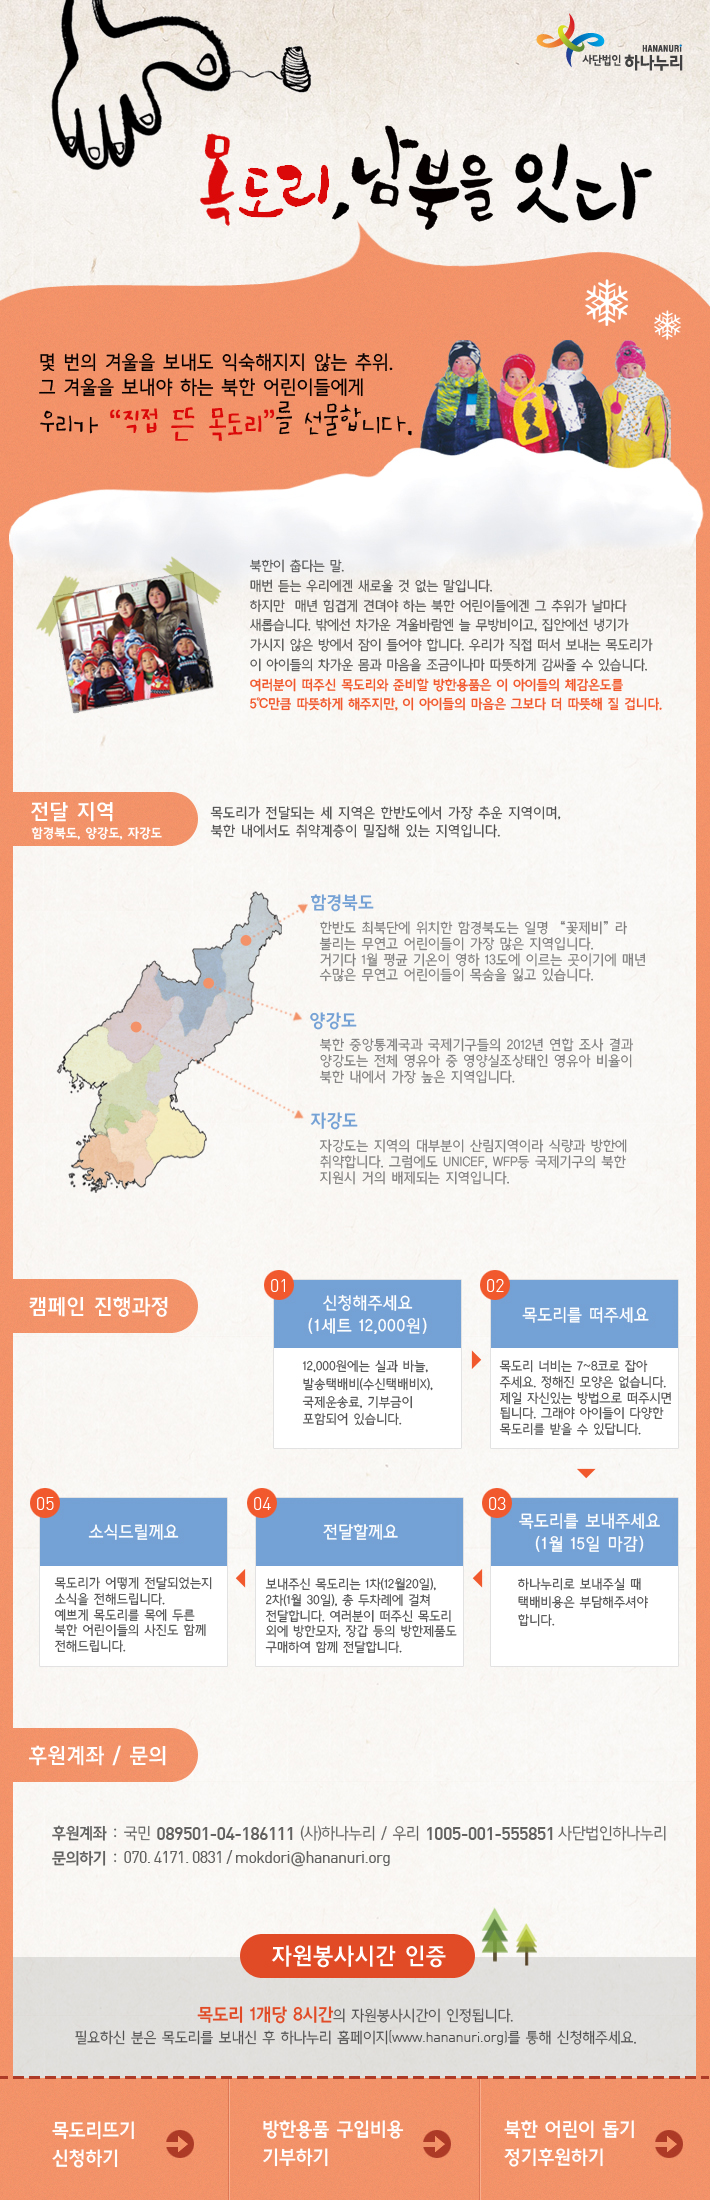
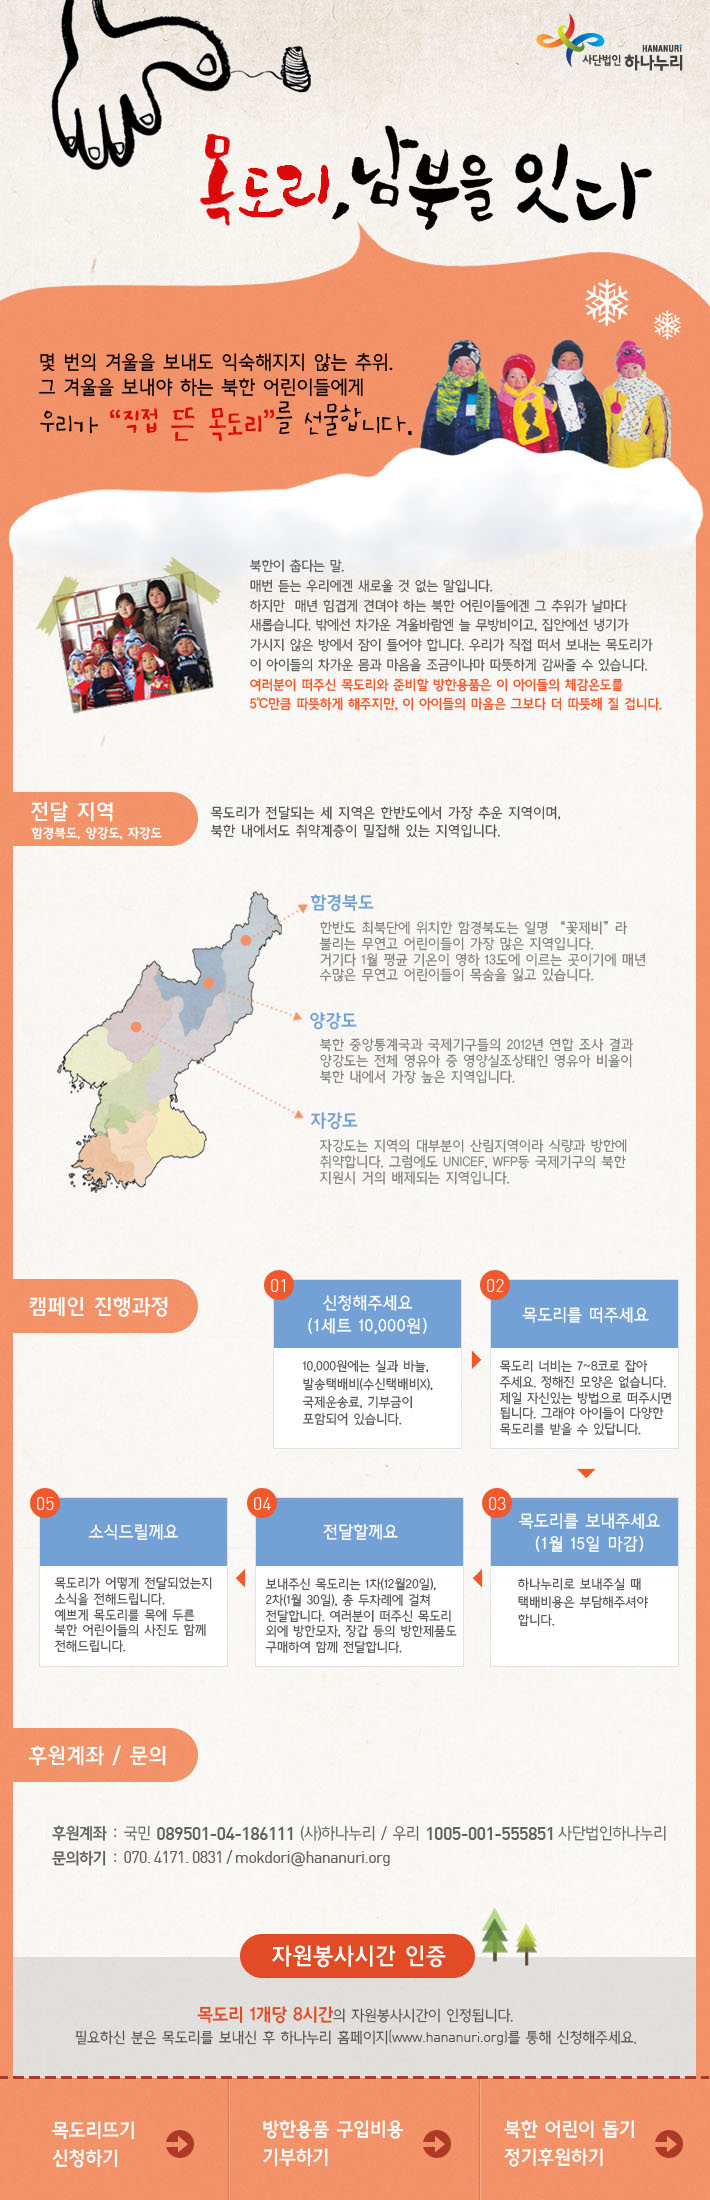
update new data

diff --git a/Page5-Muffler-Pay.php b/Page5-Muffler-Pay.php
@@ -92,12 +92,12 @@
 			$('#muffler-form-row').on('keyup', '#muffler-num-input', function(){
 				var num = +$(this).val();
 				if(num > 1){
-					var price = 12000 + (num-1) * 10000;
+					var price = 10000 + (num-1) * 10000;
 					$('#muffler-mny-value').val(price);
 					$('#muffler-mny-span').text(price);
 				}
 				else if(num == 1) {
-					var price = 12000;
+					var price = 10000;
 					$('#muffler-mny-value').val(price);
 					$('#muffler-mny-span').text(price);
 				}
@@ -358,7 +358,7 @@
 			<div id="content">
 				<div id="muffler-title">
 					<!--&lt;잠시 점검 중입니다.(11:00~14:00)&gt;-->
-					&lt;신청하신 목도리제작킷은 추석연휴 이후인 9월 23일부터 순차 발송됩니다.&gt;
+					<!--&lt;신청하신 목도리제작킷은 추석연휴 이후인 9월 23일부터 순차 발송됩니다.&gt;-->
 				</div>
 
 				<div class="form">
@@ -377,7 +377,7 @@
 								</div>
 								<div class="donate_form_col2">
 				                    <label class="label-name" id="muffler_money_label">금액<span class="reqiured">(두개 이상은 만원씩 추가됩니다.)</span></label>
-							 		<input type="hidden" name="good_mny" id="muffler-mny-value" value="12000" size="8" maxlength="9"/> <label class="label-name"> <span id="muffler-mny-span">12000</span> 원 </label>
+							 		<input type="hidden" name="good_mny" id="muffler-mny-value" value="10000" size="8" maxlength="9"/> <label class="label-name"> <span id="muffler-mny-span">10000</span> 원 </label>
 						 		</div>
 		                    </div>
 					 	</div>

diff --git a/header.php b/header.php
@@ -42,6 +42,18 @@
 	<!--[if lt IE 9]>
 	<script src="//html5shim.googlecode.com/svn/trunk/html5.js"></script>
 	<![endif]-->
+
+<script>
+  (function(i,s,o,g,r,a,m){i['GoogleAnalyticsObject']=r;i[r]=i[r]||function(){
+  (i[r].q=i[r].q||[]).push(arguments)},i[r].l=1*new Date();a=s.createElement(o),
+  m=s.getElementsByTagName(o)[0];a.async=1;a.src=g;m.parentNode.insertBefore(a,m)
+  })(window,document,'script','//www.google-analytics.com/analytics.js','ga');
+
+  ga('create', 'UA-45373555-1', 'hananuri.org');
+  ga('send', 'pageview');
+
+</script>
+
 		
 <?php
 	if ( is_singular() && get_option( 'thread_comments' ) )
